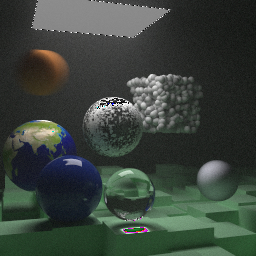
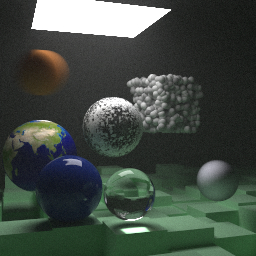
w02 final scene

Changed region(s): [[0.125, 0.0, 0.6875, 0.1562], [0.4688, 0.8438, 0.5938, 0.9375], [0.375, 0.375, 0.5, 0.4375]]

diff --git a/src/w02/misc.h b/src/w02/misc.h
@@ -61,9 +61,11 @@ interval operator+(float displacement, const interval& ival) {
 
 void push_color(std::vector<uint8_t>& image_data, HMM_Vec3 pixel_color)
 {
-    image_data.push_back(static_cast<int>(255.999 * pixel_color.X));
-    image_data.push_back(static_cast<int>(255.999 * pixel_color.Y));
-    image_data.push_back(static_cast<int>(255.999 * pixel_color.Z));
+    // Write the translated [0,255] value of each color component.
+    static const interval intensity(0.000, 0.999);
+    image_data.push_back(static_cast<int>(255.999 * intensity.clamp(pixel_color.X)));
+    image_data.push_back(static_cast<int>(255.999 * intensity.clamp(pixel_color.Y)));
+    image_data.push_back(static_cast<int>(255.999 * intensity.clamp(pixel_color.Z)));
 }
 
 void save_jpg(int image_width, int image_height, const std::vector<HMM_Vec3>& image_color_data, const char* filename)

diff --git a/src/w02/main.cpp b/src/w02/main.cpp
@@ -410,7 +410,7 @@ int main()
 {
     auto timeStart = std::chrono::high_resolution_clock::now();
 
-    switch (10) {
+    switch (9) {
         case 1: random_spheres();      break;
         case 2: two_spheres();         break;
         case 3: earth();               break;
